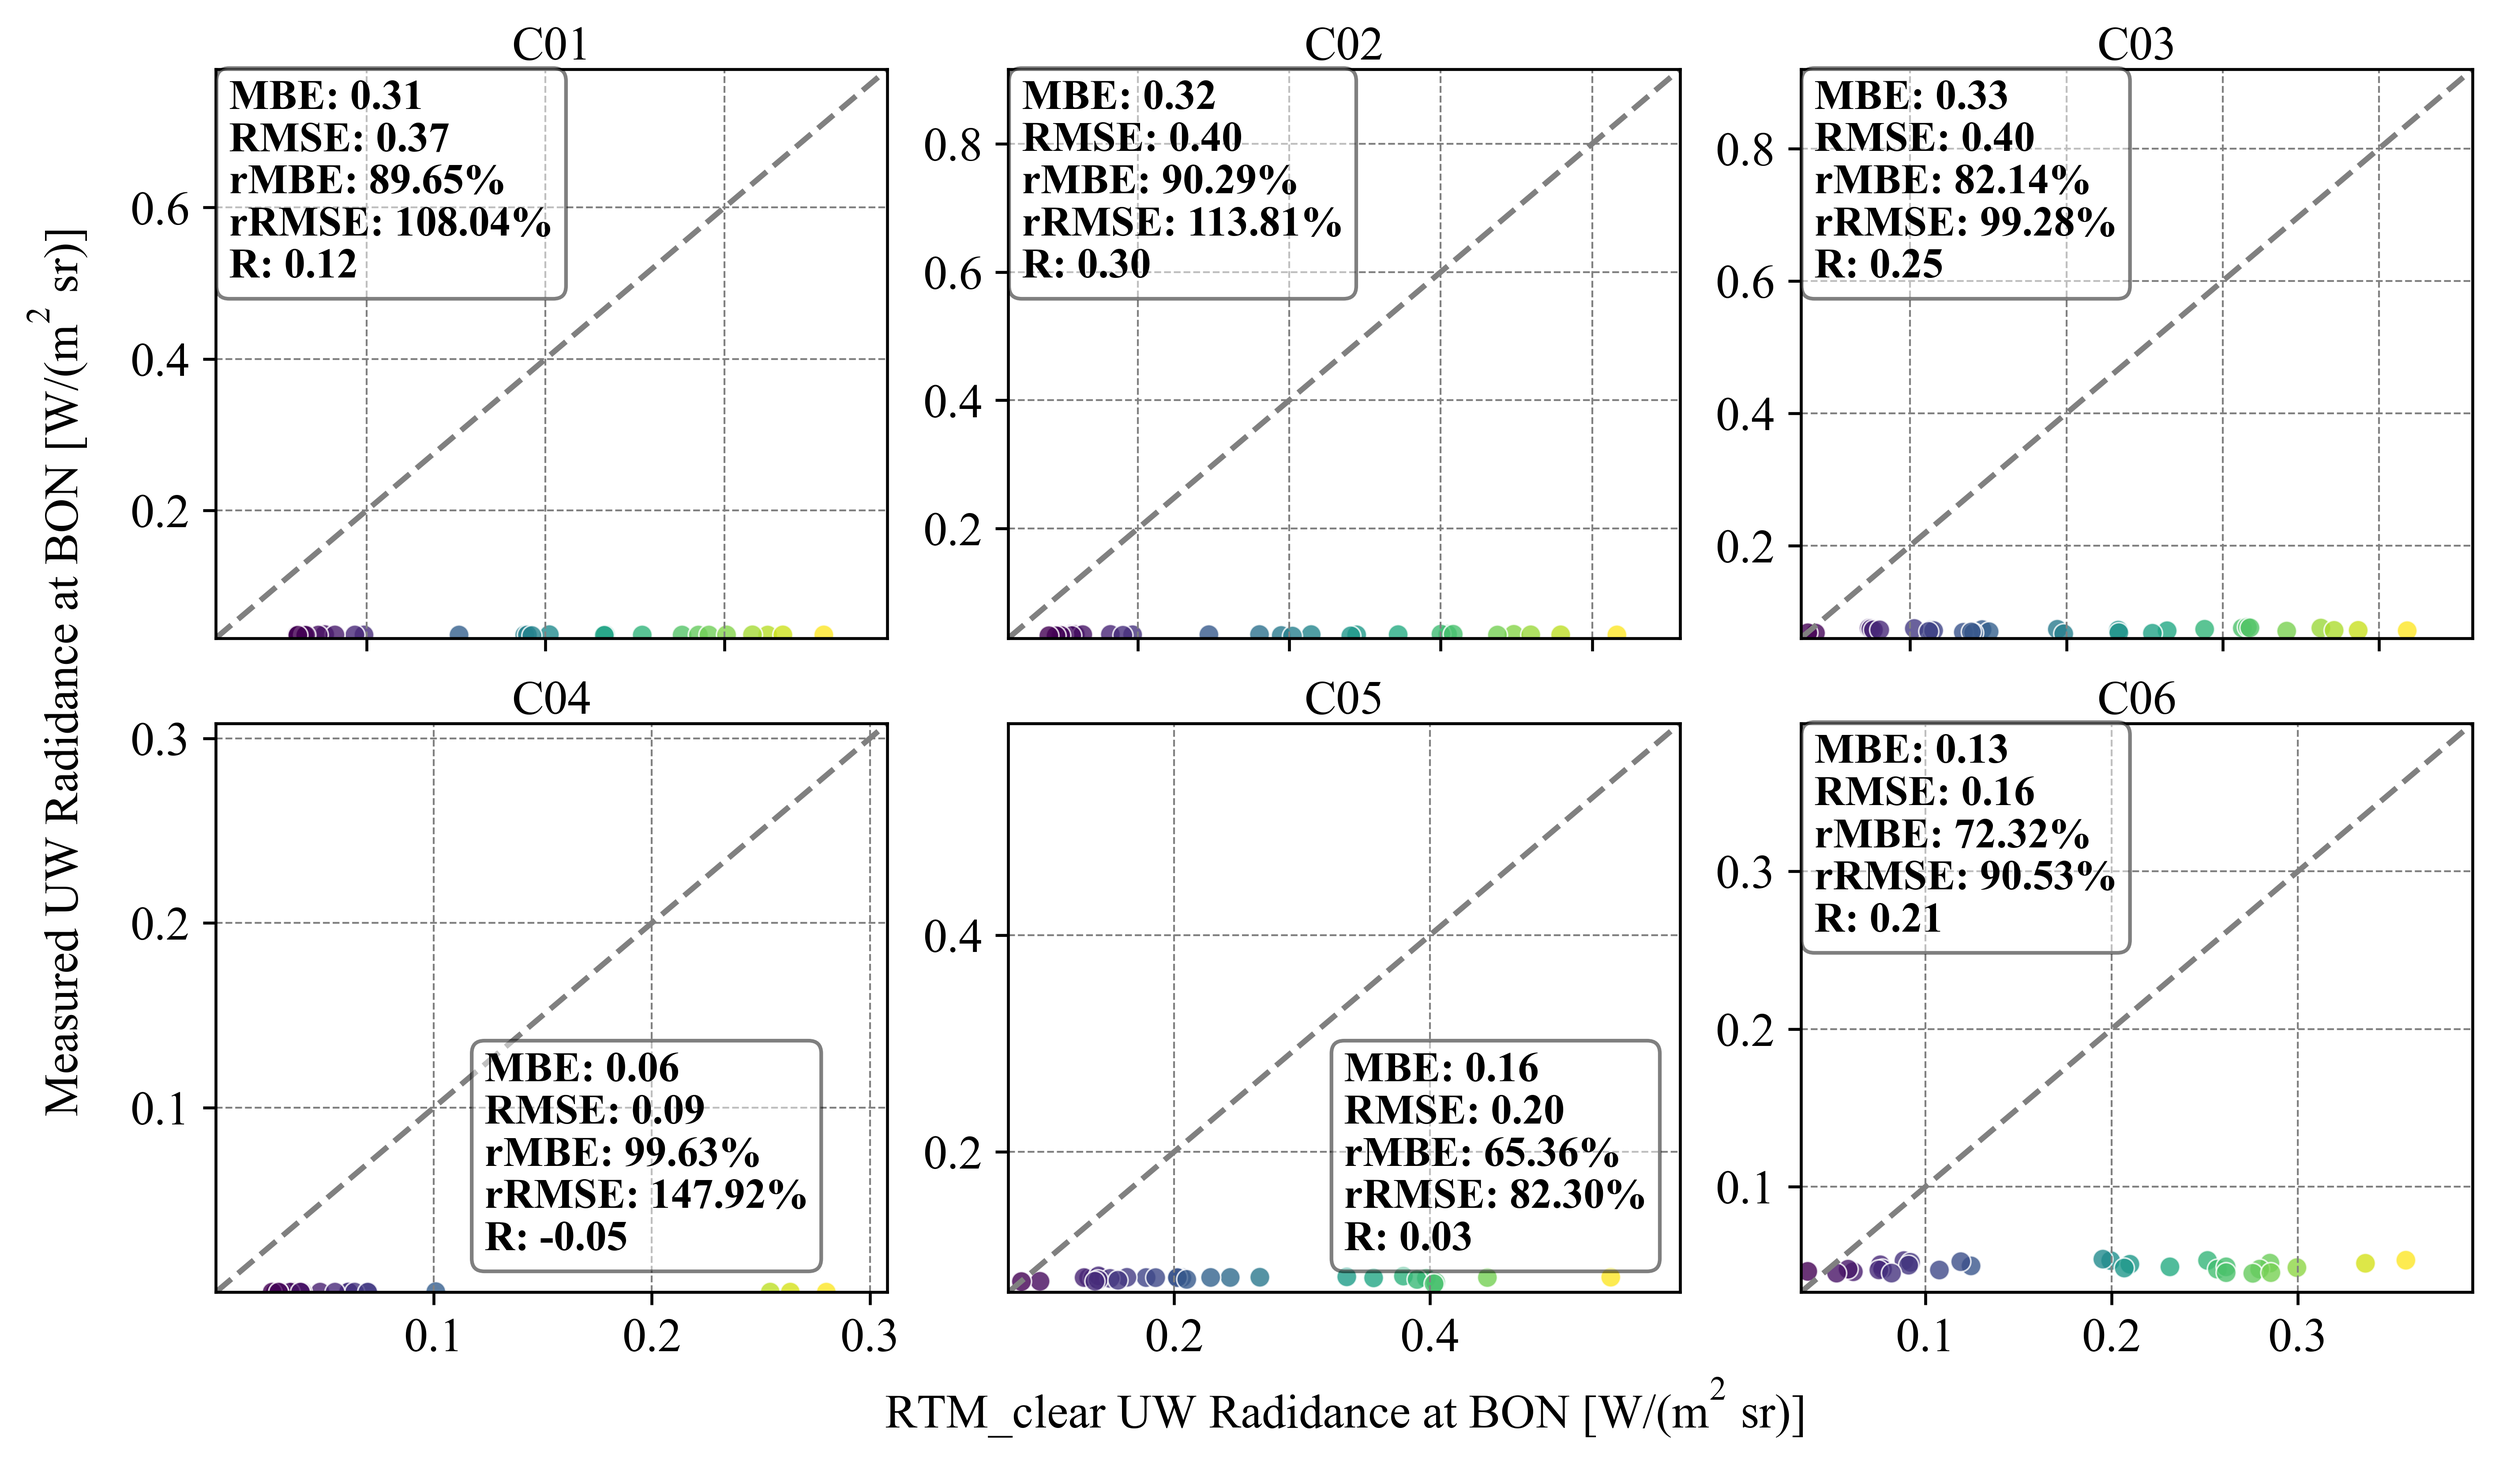
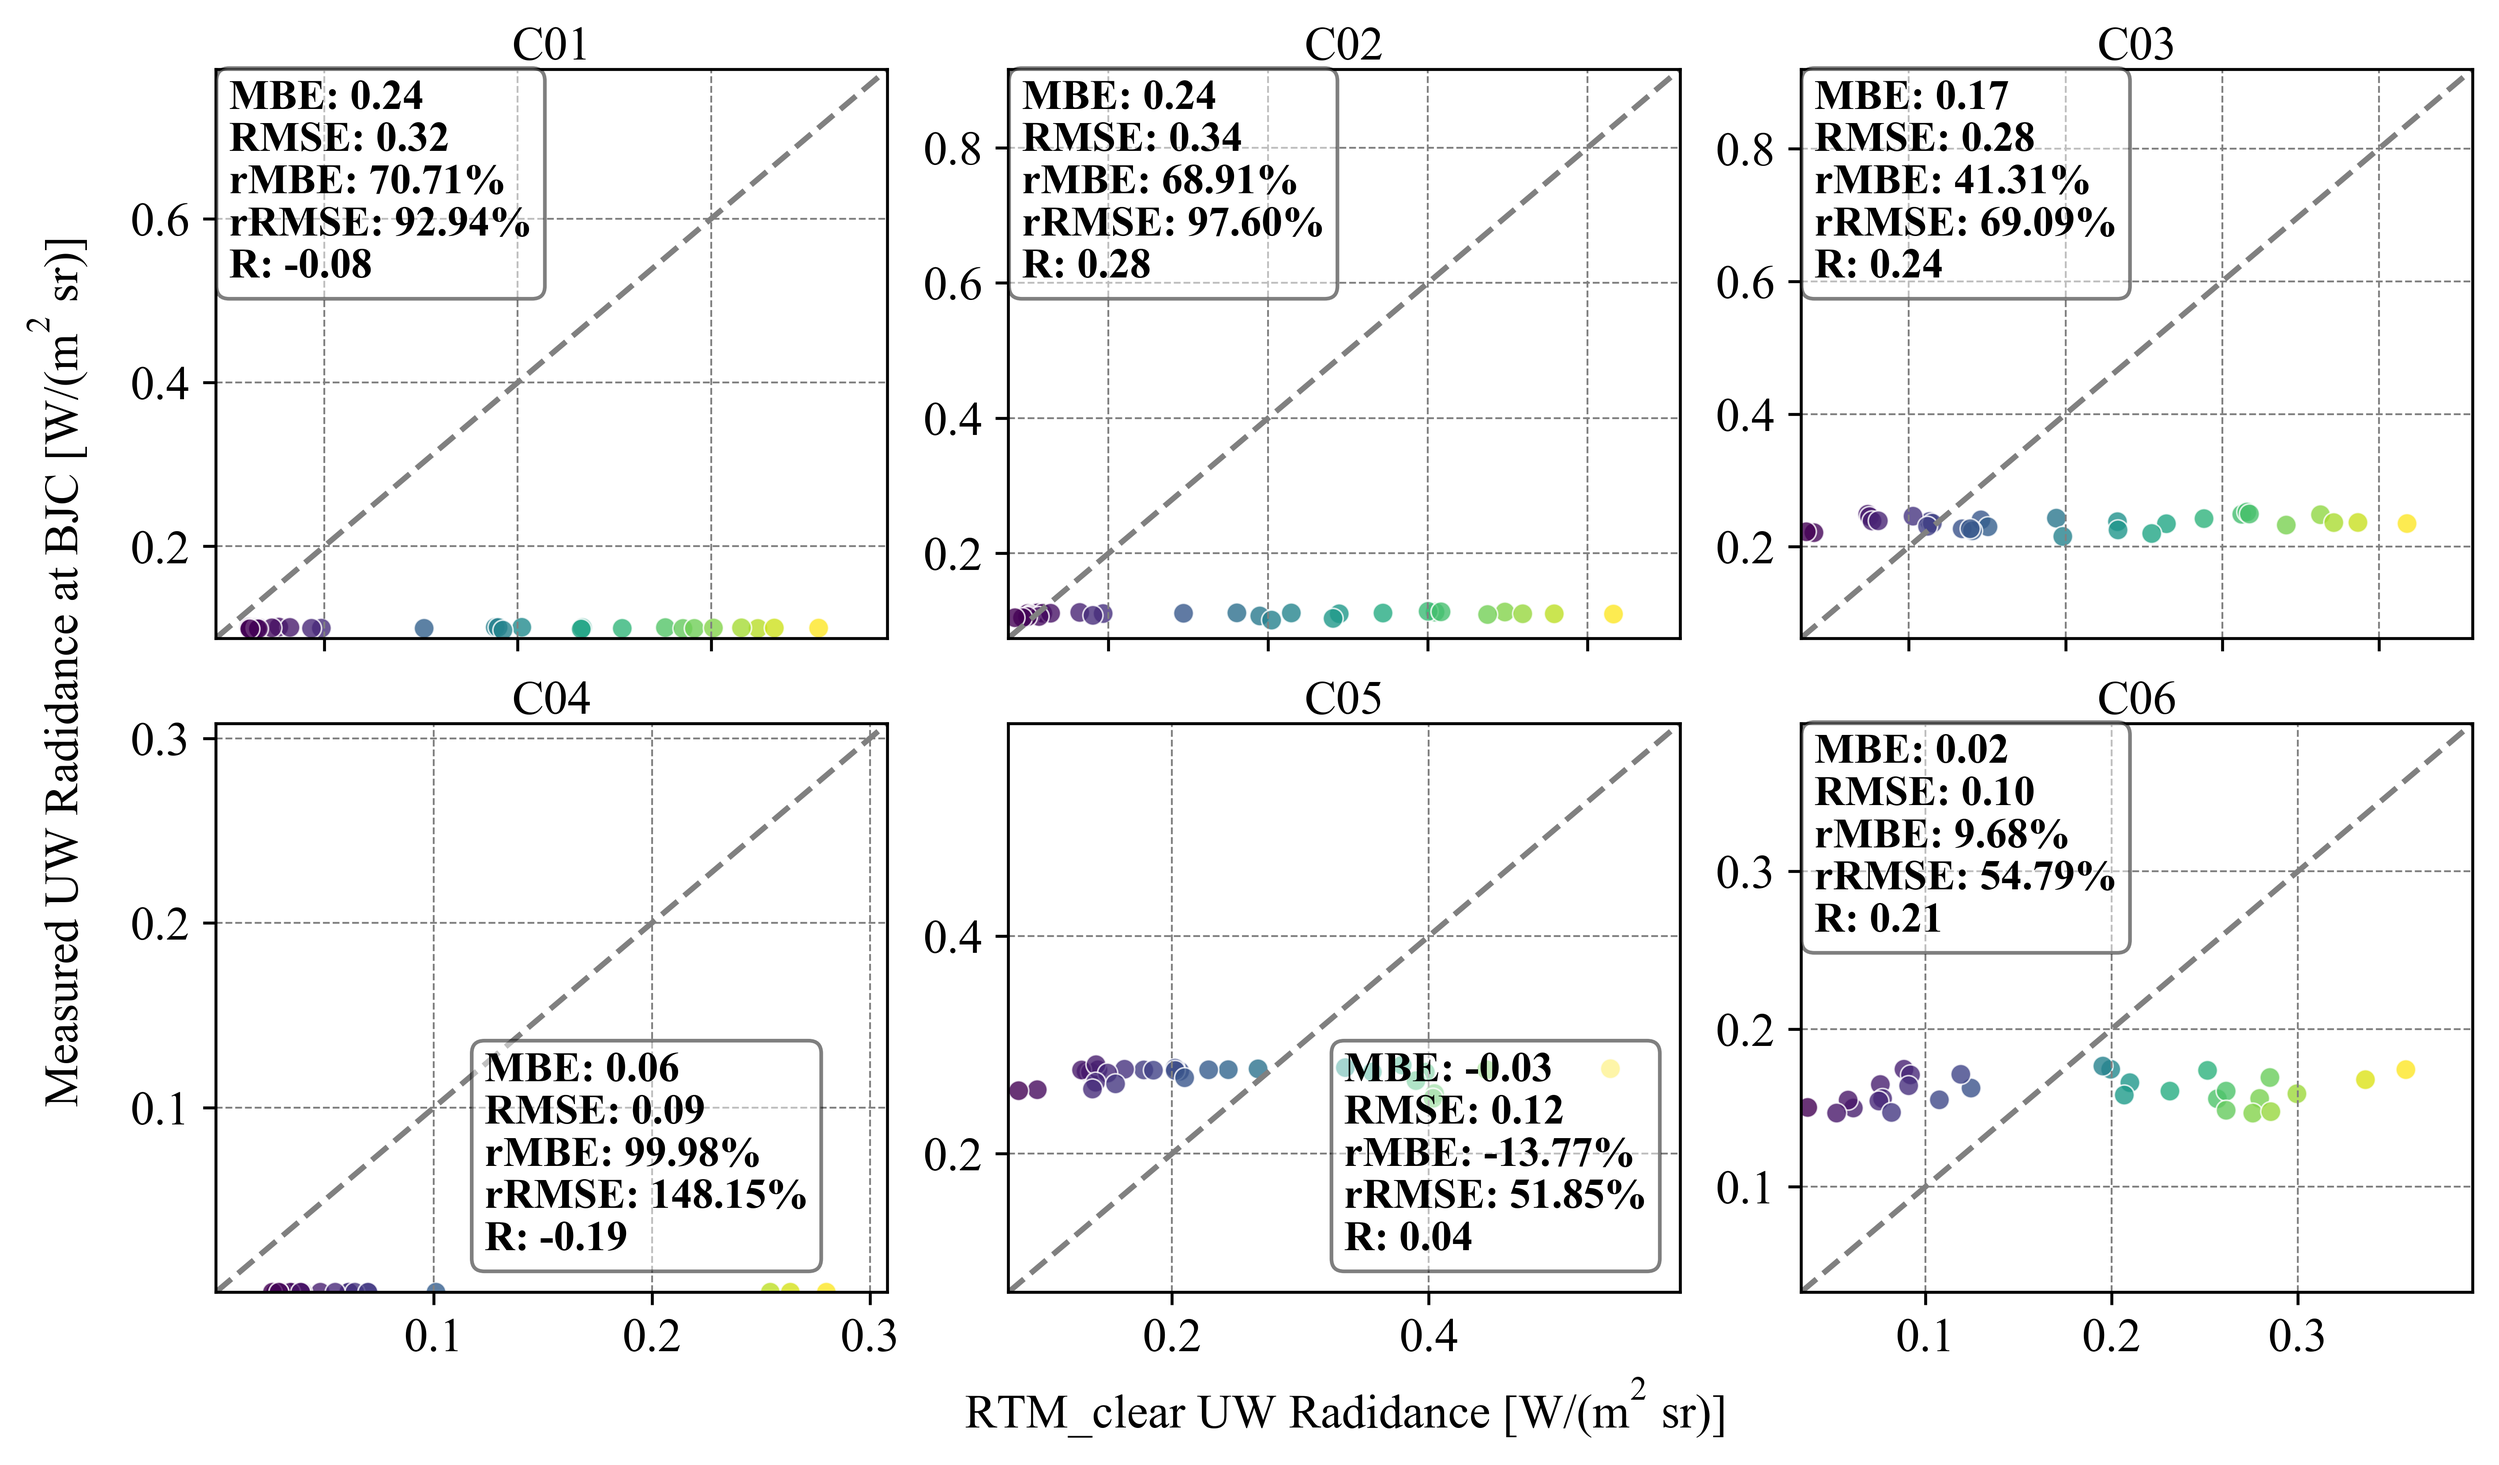
update

diff --git a/fun_nearealtime_RTM.py b/fun_nearealtime_RTM.py
@@ -103,12 +103,10 @@ def LUT(uw, COD, target_zenith, local_zen, rela_azi, file_dir='./FY4A_data/'):
         theta_idx, phi_idx = find_bin_indices(local_zen, rela_azi, 'both')
         U, S, VT = load_and_interpolate_whole(fdir + f'angular_dist_lut_COD={int(COD_)}.h5', channel, target_zenith)
         H_r = reconstruct_hc(U, S, VT)
-        nu_idx = np.nonzero(np.isin(nu0, nu_channel))[0]  # fixed 1 April.
-        # correct uw
+        nu_idx = np.nonzero(np.isin(nu0, nu_channel))[0]
         uw_cor = np.multiply(uw[nu_idx], srf)
-        #uw_channel = np.trapz(uw[nu_idx], nu_channel)/F_dw_os_srf_channel[i]
         uw_channel = np.trapz(uw_cor, nu_channel)/F_dw_os_srf_channel[i]
-        df.loc[0, channel] = uw_channel#/np.pi #* H_r[theta_idx, phi_idx] # W/m2/sr radiance
+        df.loc[0, channel] = uw_channel* H_r[theta_idx, phi_idx] # W/m2/sr radiance    #/np.pi #
     return df
 
 def Ref_to_Flux_LUT(df_row, file_dir='./FY4A_data/'):
@@ -520,7 +518,7 @@ def density_scatter( x , y, ax = None, sort = True, bins = 50, **kwargs )   :
 
 
 
-def plot_data(sat_ref, Rc_rtm_df, channels, VAR, CODfromWhom,figlabel=None):
+def plot_data(sat_ref, Rc_rtm_df, channels, VAR, CODfromWhom,site, figlabel=None):
     font = 13
     fontfml = 'Times New Roman'
     plt.rcParams['font.size'] = font
@@ -600,14 +598,14 @@ def plot_data(sat_ref, Rc_rtm_df, channels, VAR, CODfromWhom,figlabel=None):
             ax.text(0.02, 0.98, stats_text, transform=ax.transAxes, fontsize=12-0.5, verticalalignment='top',weight='bold',
                     bbox=dict(boxstyle='round', facecolor='white', alpha=0.5))
         if idx == 4:
-            ax.set_xlabel(f'{CODfromWhom} UW Radidance at BON [W/(m$^2$ sr)]', fontsize=font, family=fontfml)
+            ax.set_xlabel(f'{CODfromWhom} UW Radidance [W/(m$^2$ sr)]', fontsize=font, family=fontfml)
         if idx in [0,1,2]:
             ax.set_xticklabels([])
         # Apply the y-axis ticks to the x-axis
         ax.set_xticks(ax.get_yticks())
         ax.set_xlim(min_val * 0.9, max_val * 1.1)
         ax.set_ylim(min_val * 0.9, max_val * 1.1)
-        fig.supylabel('Measured UW Radidance at BON [W/(m$^2$ sr)]', fontsize=font, family=fontfml,ha='left', x=0.06)
+        fig.supylabel(f'Measured UW Radidance at {site} [W/(m$^2$ sr)]', fontsize=font, family=fontfml,ha='left', x=0.06)
 
         ax.grid(color='grey', linestyle='--', linewidth=0.5)
         ax.set_title(f'{ch}', fontsize=font, family=fontfml,pad=2)

diff --git a/main_SW_scope_nearealtime.py b/main_SW_scope_nearealtime.py
@@ -481,7 +481,7 @@ def compare_clear_dsw(site, sourcefile, meth='HG', sky="clear", file_dir=None, f
     sat_rad = df_combined[channels]
     rtm_rad = df_combined[rtm_channels]
     rtm_rad.columns = [col.replace('_rtm', '') for col in rtm_rad.columns]
-    plot_data(sat_rad[:30], rtm_rad[:30], channels, VAR, CODfromwho, figlabel)
+    plot_data(sat_rad[:30], rtm_rad[:30], channels, VAR, CODfromwho,site, figlabel)
     # dw
     plot_data_dw_clear(site_GHI[:30], rtm_GHI[:30], CODfromwho, df_combined['Sun_Zen'][:30], site)
     #                    CODfromwho, df_combined['Site_zen'][32:75], site, figlabel=figlabel, meth=meth)
